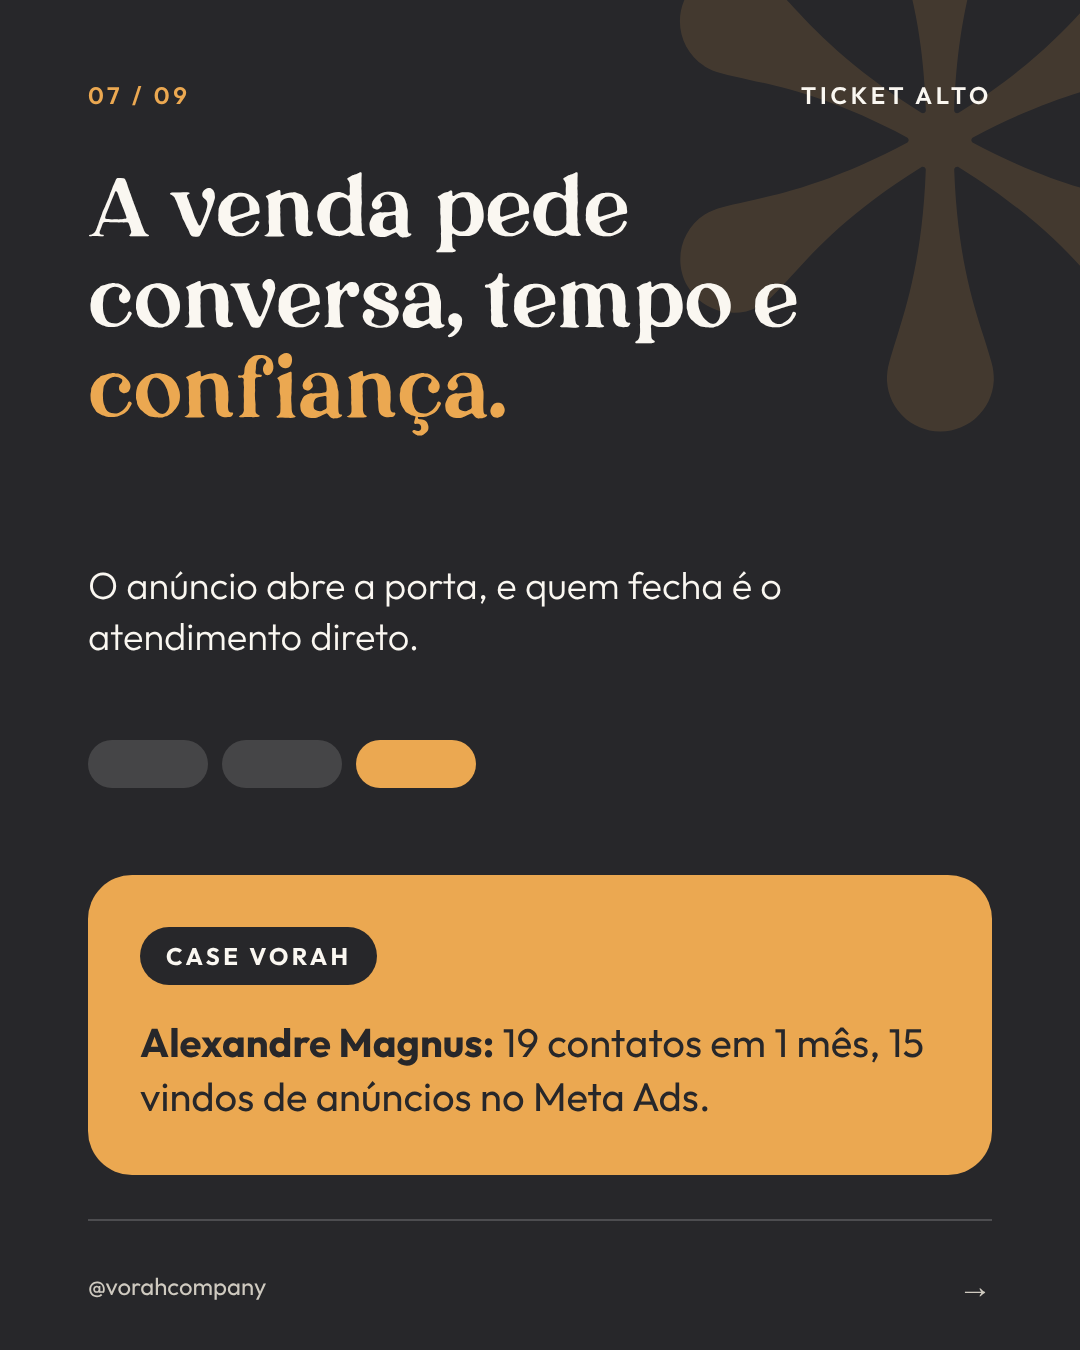
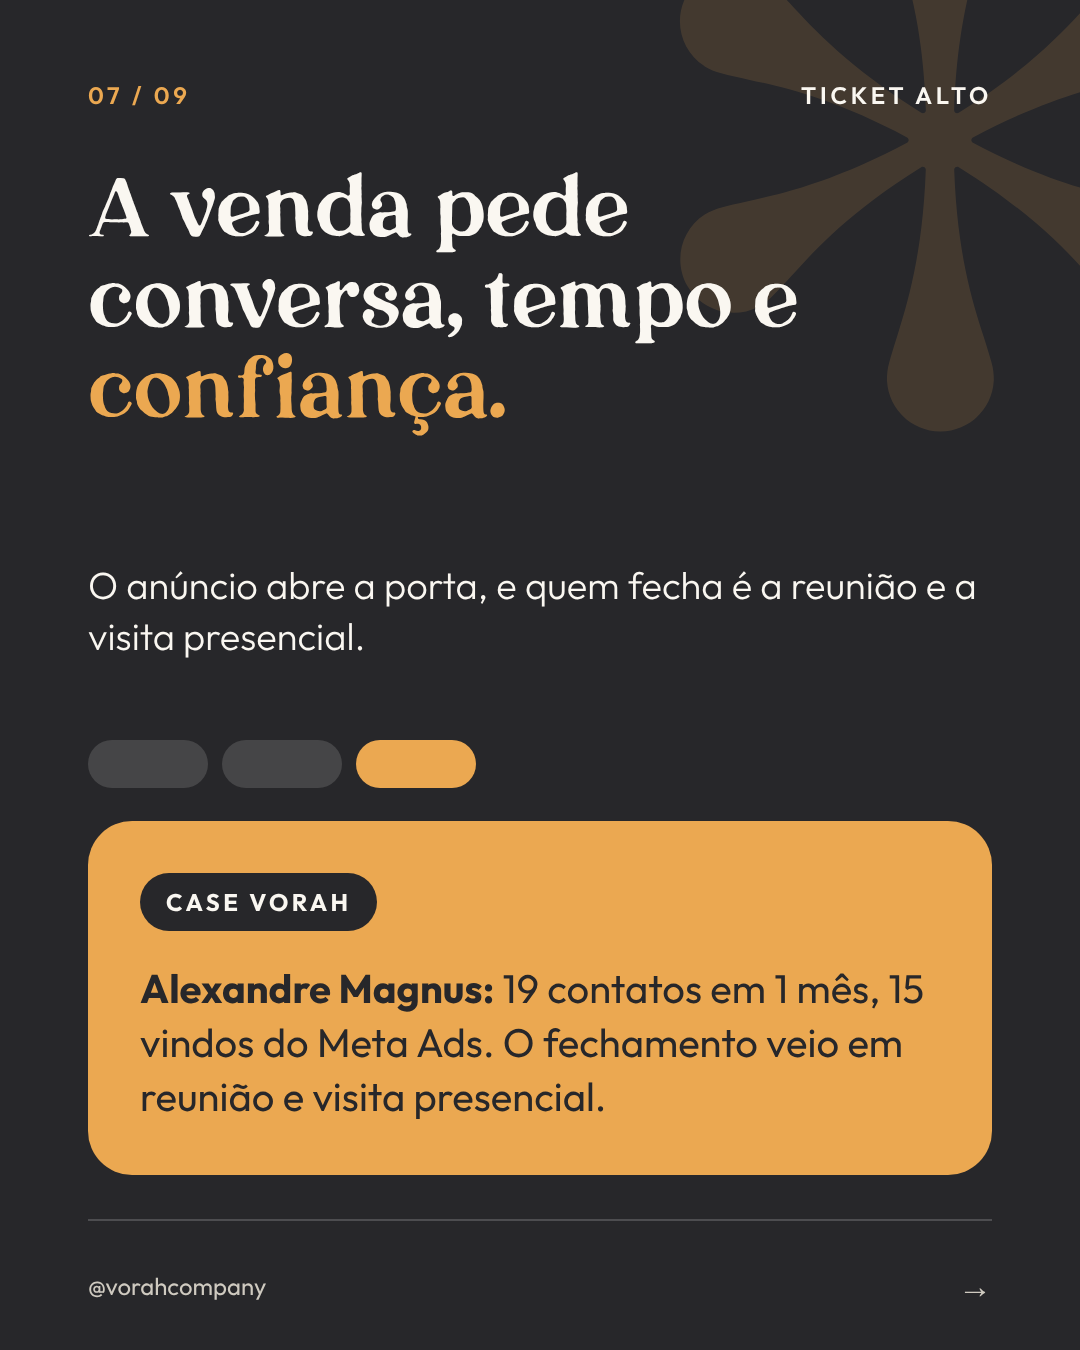
rascunho: slide 7 do carrossel do canal com reunião e visita presencial do Alexandre Magnus
Claude-Session: https://claude.ai/code/session_01D1VH4EUWNsEsRHCET77pdb

Changed region(s): [[0.0611, 0.5911, 0.9167, 0.84], [0.0917, 0.4667, 0.3667, 0.4978], [0.7333, 0.4044, 0.8556, 0.4667]]

diff --git a/conteudos-aprovados/2026-10-26_vorah-company_carrossel_quem-escolhe-seu-canal-e-a-conta/layout-editavel.html b/conteudos-aprovados/2026-10-26_vorah-company_carrossel_quem-escolhe-seu-canal-e-a-conta/layout-editavel.html
@@ -109,9 +109,9 @@ h1 em{font-style:normal;color:var(--amber7)}
  <div class="flower"></div>
  <div class="top"><span class="n">07 / 09</span><span>Ticket alto</span></div>
  <h1>A venda pede conversa, tempo e <em>confiança.</em></h1>
- <p class="lead" style="top:560px">O anúncio abre a porta, e quem fecha é o atendimento direto.</p>
+ <p class="lead" style="top:560px">O anúncio abre a porta, e quem fecha é a reunião e a visita presencial.</p>
  <div class="scale" style="top:auto;left:88px;right:auto;top:740px;flex-direction:row;gap:14px;align-items:center"><div class="pill" style="width:120px"></div><div class="pill" style="width:120px"></div><div class="pill on" style="width:120px"></div></div>
- <div class="card" style="background:var(--amber);color:var(--char)"><span class="tag" style="background:var(--char);color:var(--cream)">Case Vorah</span><p style="font-weight:400"><b style="color:var(--char);font-weight:700">Alexandre Magnus:</b> 19 contatos em 1 mês, 15 vindos de anúncios no Meta Ads.</p></div>
+ <div class="card" style="background:var(--amber);color:var(--char)"><span class="tag" style="background:var(--char);color:var(--cream)">Case Vorah</span><p style="font-weight:400"><b style="color:var(--char);font-weight:700">Alexandre Magnus:</b> 19 contatos em 1 mês, 15 vindos do Meta Ads. O fechamento veio em reunião e visita presencial.</p></div>
  <div class="foot"><span>@vorahcompany</span><span class="arrow">→</span></div>
 </section>
 
